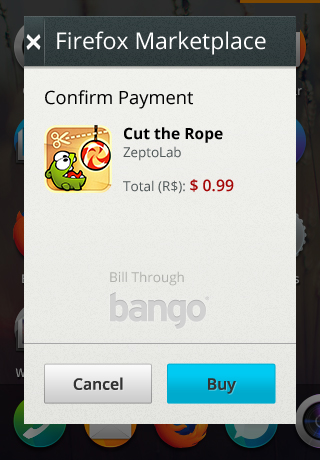
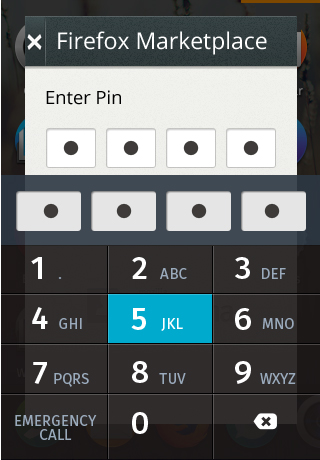
updated screens with mushi

diff --git a/index.html b/index.html
@@ -11,10 +11,10 @@
       <img src="img/payments-demo-1.jpg">
       <img src="img/payments-demo-2.jpg">
       <img src="img/payments-demo-3.jpg">
-      <img src="img/payments-demo-4-1.jpg">
       <img src="img/payments-demo-4.jpg">
       <img src="img/payments-demo-5.jpg">
       <img src="img/payments-demo-6.jpg">
+      <img src="img/payments-demo-7.jpg">
     </section>
     <a href="#" class="control next"></a>
     <a href="#" class="control prev"></a>
